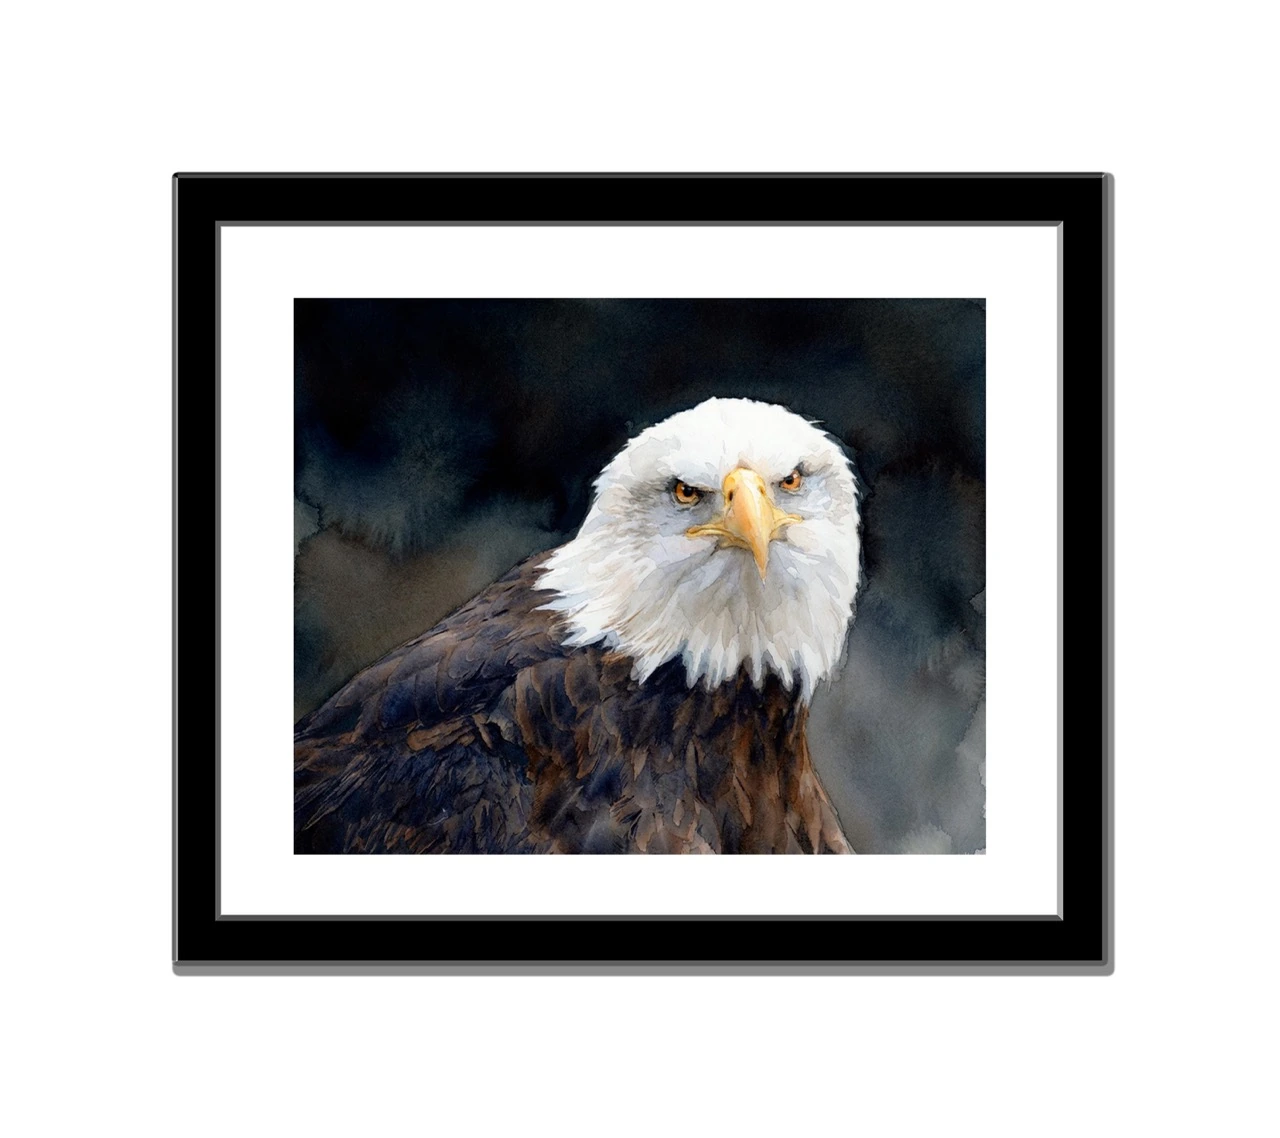
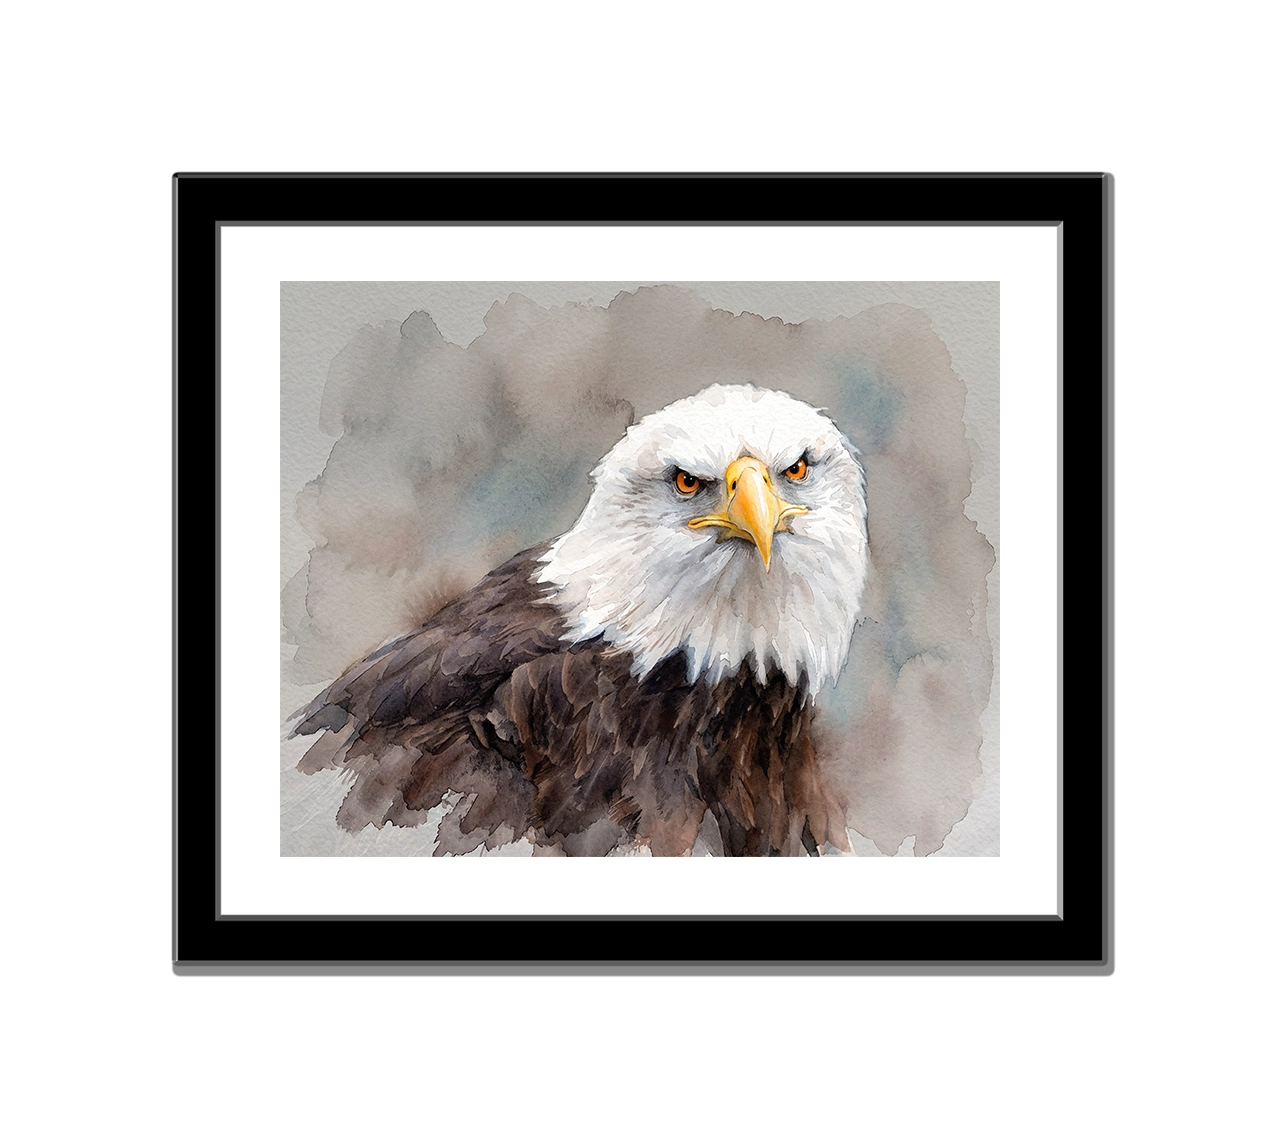
image changes and product.html fix

Changed region(s): [[0.2188, 0.246, 0.7812, 0.7689]]

diff --git a/product/index.html b/product/index.html
@@ -756,21 +756,78 @@
     .not-found a:hover { background: var(--warm-tan); color: var(--cream); }
 
     .before-after-section { padding: 0 3rem 2rem; max-width: 1100px; margin: 0 auto; }
-    .before-after-grid { display: grid; grid-template-columns: 1fr 1fr; gap: 2rem; align-items: center; margin-bottom: 1.5rem; }
-    .before-after-img-wrap { position: relative; background: var(--linen); overflow: hidden; }
-    .before-after-img-wrap img { display: block; width: 100%; height: auto; padding: 0.75rem; object-fit: contain; }
-    .before-after-label {
-      position: absolute;
-      bottom: 0; left: 0; right: 0;
-      text-align: center;
-      padding: 0.6rem 0;
+    /* ── BEFORE / AFTER SLIDER ─────────────────────────────── */
+    .ba-frame { background: var(--linen); padding: 0.75rem; display: flex; justify-content: center; margin-bottom: 0.75rem; }
+    .ba-stage {
+      --pos: 50%;
+      position: relative;
+      display: inline-block;
+      max-width: 100%;
+      line-height: 0;
+      cursor: ew-resize;
+      touch-action: pan-y;
+      overflow: hidden;
+      -webkit-user-select: none; user-select: none;
+    }
+    .ba-stage img.ba-wc { display: block; max-width: 100%; max-height: 70vh; width: auto; height: auto; }
+    .ba-stage img.ba-orig {
+      position: absolute; inset: 0;
+      width: 100%; height: 100%;
+      object-fit: cover;
+      clip-path: inset(0 calc(100% - var(--pos)) 0 0);
+    }
+    .ba-handle {
+      position: absolute; top: 0; bottom: 0;
+      left: var(--pos);
+      width: 2px;
+      transform: translateX(-50%);
+      background: var(--cream);
+      box-shadow: 0 0 6px rgba(46, 36, 25, 0.35);
+      outline: none;
+    }
+    .ba-knob {
+      position: absolute; top: 50%; left: 50%;
+      width: 42px; height: 42px;
+      transform: translate(-50%, -50%);
+      border-radius: 50%;
+      background: var(--cream);
+      border: 1px solid var(--warm-tan);
+      box-shadow: 0 2px 10px rgba(46, 36, 25, 0.25);
+      display: flex; align-items: center; justify-content: center;
+      color: var(--text-mid);
+      transition: transform 0.2s ease;
+    }
+    .ba-knob svg { width: 22px; height: 22px; }
+    .ba-stage:hover .ba-knob,
+    .ba-handle:focus-visible .ba-knob { transform: translate(-50%, -50%) scale(1.08); }
+    .ba-handle:focus-visible .ba-knob { outline: 2px solid var(--text-mid); outline-offset: 3px; }
+    .ba-label {
+      position: absolute; top: 0.75rem;
+      padding: 0.4rem 0.75rem;
       font-family: 'Jost', sans-serif;
-      font-size: 0.6rem;
+      font-size: 0.58rem;
       font-weight: 300;
-      letter-spacing: 0.24em;
+      line-height: 1.4;
+      letter-spacing: 0.22em;
       text-transform: uppercase;
       color: var(--text-mid);
-      background: linear-gradient(transparent, rgba(237, 232, 220, 0.9));
+      background: rgba(245, 240, 232, 0.88);
+      pointer-events: none;
+      transition: opacity 0.3s ease;
+    }
+    .ba-label-orig { left: 0.75rem; }
+    .ba-label-wc   { right: 0.75rem; }
+    .ba-stage.ba-hide-orig-label .ba-label-orig,
+    .ba-stage.ba-hide-wc-label   .ba-label-wc { opacity: 0; }
+    .ba-hint {
+      text-align: center;
+      font-family: 'Jost', sans-serif;
+      font-size: 0.58rem;
+      font-weight: 300;
+      letter-spacing: 0.22em;
+      text-transform: uppercase;
+      color: var(--text-light);
+      margin-bottom: 1.5rem;
     }
     .before-after-text { text-align: center; max-width: 640px; margin: 0 auto; }
     .before-after-text p {
@@ -808,7 +865,10 @@
       .mobile-medium-preview img { display: block; width: 100%; max-height: 280px; object-fit: contain; }
       .mobile-medium-preview-label { font-family: 'Jost', sans-serif; font-size: 0.58rem; font-weight: 300; letter-spacing: 0.2em; text-transform: uppercase; color: var(--text-light); margin-top: 0.4rem; }
       .before-after-section { padding: 0 1.5rem 2rem; }
-      .before-after-grid { grid-template-columns: 1fr; gap: 1rem; }
+      .ba-stage img.ba-wc { max-height: 62vh; }
+      .ba-label { font-size: 0.52rem; padding: 0.3rem 0.55rem; top: 0.5rem; }
+      .ba-label-orig { left: 0.5rem; }
+      .ba-label-wc   { right: 0.5rem; }
     }
 
     @media (max-width: 600px) {
@@ -1058,16 +1118,20 @@
       const beforeAfterHTML = product.images.original ? `
         <div class="section-divider"><span>The Transformation</span></div>
         <section class="before-after-section">
-          <div class="before-after-grid">
-            <div class="before-after-img-wrap">
-              <img src="/${product.images.original}" alt="${product.title} - original photograph" />
-              <span class="before-after-label">Original Photograph</span>
-            </div>
-            <div class="before-after-img-wrap">
-              <img src="/${product.images.main}" alt="${product.title} - watercolor print" />
-              <span class="before-after-label">Watercolor Print</span>
+          <div class="ba-frame">
+            <div class="ba-stage">
+              <img class="ba-wc" src="/${product.images.main}" alt="${product.title} - watercolor print" />
+              <img class="ba-orig" src="/${product.images.original}" alt="${product.title} - original photograph" loading="lazy" />
+              <span class="ba-label ba-label-orig">Original Photograph</span>
+              <span class="ba-label ba-label-wc">Watercolor Print</span>
+              <div class="ba-handle" role="slider" tabindex="0" aria-label="Compare the original photograph with the watercolor print" aria-valuemin="0" aria-valuemax="100" aria-valuenow="50" aria-valuetext="50% original photograph">
+                <span class="ba-knob" aria-hidden="true">
+                  <svg viewBox="0 0 24 24" fill="none" stroke="currentColor" stroke-width="1.5" stroke-linecap="round" stroke-linejoin="round"><polyline points="9 6 3 12 9 18"></polyline><polyline points="15 6 21 12 15 18"></polyline></svg>
+                </span>
+              </div>
             </div>
           </div>
+          <p class="ba-hint">Drag to compare</p>
           <div class="before-after-text">
             <p>Each watercolor print begins as an original photograph captured on location.  Through careful artistic editing, the image is transformed into the fine art watercolor you see here.</p>
           </div>
@@ -1492,6 +1556,86 @@
       }
     }
     if (product) renderRelatedSection(product);
+
+    // ── BEFORE / AFTER SLIDER ───────────────────────────────────
+    function initBeforeAfterSlider() {
+      const stage = document.querySelector('.ba-stage');
+      if (!stage) return;
+      const handle = stage.querySelector('.ba-handle');
+      let pos = 50;
+      let dragging = false;
+      let hintFrame = null;
+
+      function setPos(p) {
+        pos = Math.max(0, Math.min(100, p));
+        stage.style.setProperty('--pos', pos + '%');
+        handle.setAttribute('aria-valuenow', Math.round(pos));
+        handle.setAttribute('aria-valuetext', Math.round(pos) + '% original photograph');
+        stage.classList.toggle('ba-hide-orig-label', pos < 18);
+        stage.classList.toggle('ba-hide-wc-label', pos > 82);
+      }
+
+      function setFromPointer(e) {
+        const rect = stage.getBoundingClientRect();
+        setPos(((e.clientX - rect.left) / rect.width) * 100);
+      }
+
+      function stopHint() {
+        if (hintFrame) { cancelAnimationFrame(hintFrame); hintFrame = null; }
+      }
+
+      stage.addEventListener('pointerdown', function(e) {
+        stopHint();
+        dragging = true;
+        stage.setPointerCapture(e.pointerId);
+        // On touch screens, wait for movement so a scroll gesture doesn't jump the slider
+        if (e.pointerType !== 'touch') setFromPointer(e);
+      });
+      stage.addEventListener('pointermove', function(e) {
+        if (dragging) setFromPointer(e);
+      });
+      ['pointerup', 'pointercancel', 'lostpointercapture'].forEach(function(type) {
+        stage.addEventListener(type, function() { dragging = false; });
+      });
+
+      handle.addEventListener('keydown', function(e) {
+        const step = e.shiftKey ? 10 : 2;
+        let handled = true;
+        if (e.key === 'ArrowLeft' || e.key === 'ArrowDown') setPos(pos - step);
+        else if (e.key === 'ArrowRight' || e.key === 'ArrowUp') setPos(pos + step);
+        else if (e.key === 'Home') setPos(0);
+        else if (e.key === 'End') setPos(100);
+        else handled = false;
+        if (handled) { stopHint(); e.preventDefault(); }
+      });
+
+      setPos(50);
+
+      // Gentle one-time nudge when the slider scrolls into view, so visitors see it moves
+      const reduceMotion = window.matchMedia && window.matchMedia('(prefers-reduced-motion: reduce)').matches;
+      if (!reduceMotion && 'IntersectionObserver' in window) {
+        const observer = new IntersectionObserver(function(entries) {
+          if (!entries[0].isIntersecting) return;
+          observer.disconnect();
+          const keyframes = [50, 30, 70, 50];
+          const segment = 700;
+          let start = null;
+          function step(ts) {
+            if (start === null) start = ts;
+            const elapsed = ts - start;
+            const i = Math.floor(elapsed / segment);
+            if (i >= keyframes.length - 1) { setPos(50); hintFrame = null; return; }
+            const t = (elapsed % segment) / segment;
+            const eased = t < 0.5 ? 2 * t * t : 1 - Math.pow(-2 * t + 2, 2) / 2;
+            setPos(keyframes[i] + (keyframes[i + 1] - keyframes[i]) * eased);
+            hintFrame = requestAnimationFrame(step);
+          }
+          setTimeout(function() { hintFrame = requestAnimationFrame(step); }, 400);
+        }, { threshold: 0.6 });
+        observer.observe(stage);
+      }
+    }
+    if (product) initBeforeAfterSlider();
 
     document.addEventListener('contextmenu', function(e) { e.preventDefault(); });
     document.addEventListener('dragstart', function(e) { if (e.target.tagName === 'IMG') { e.preventDefault(); } });
